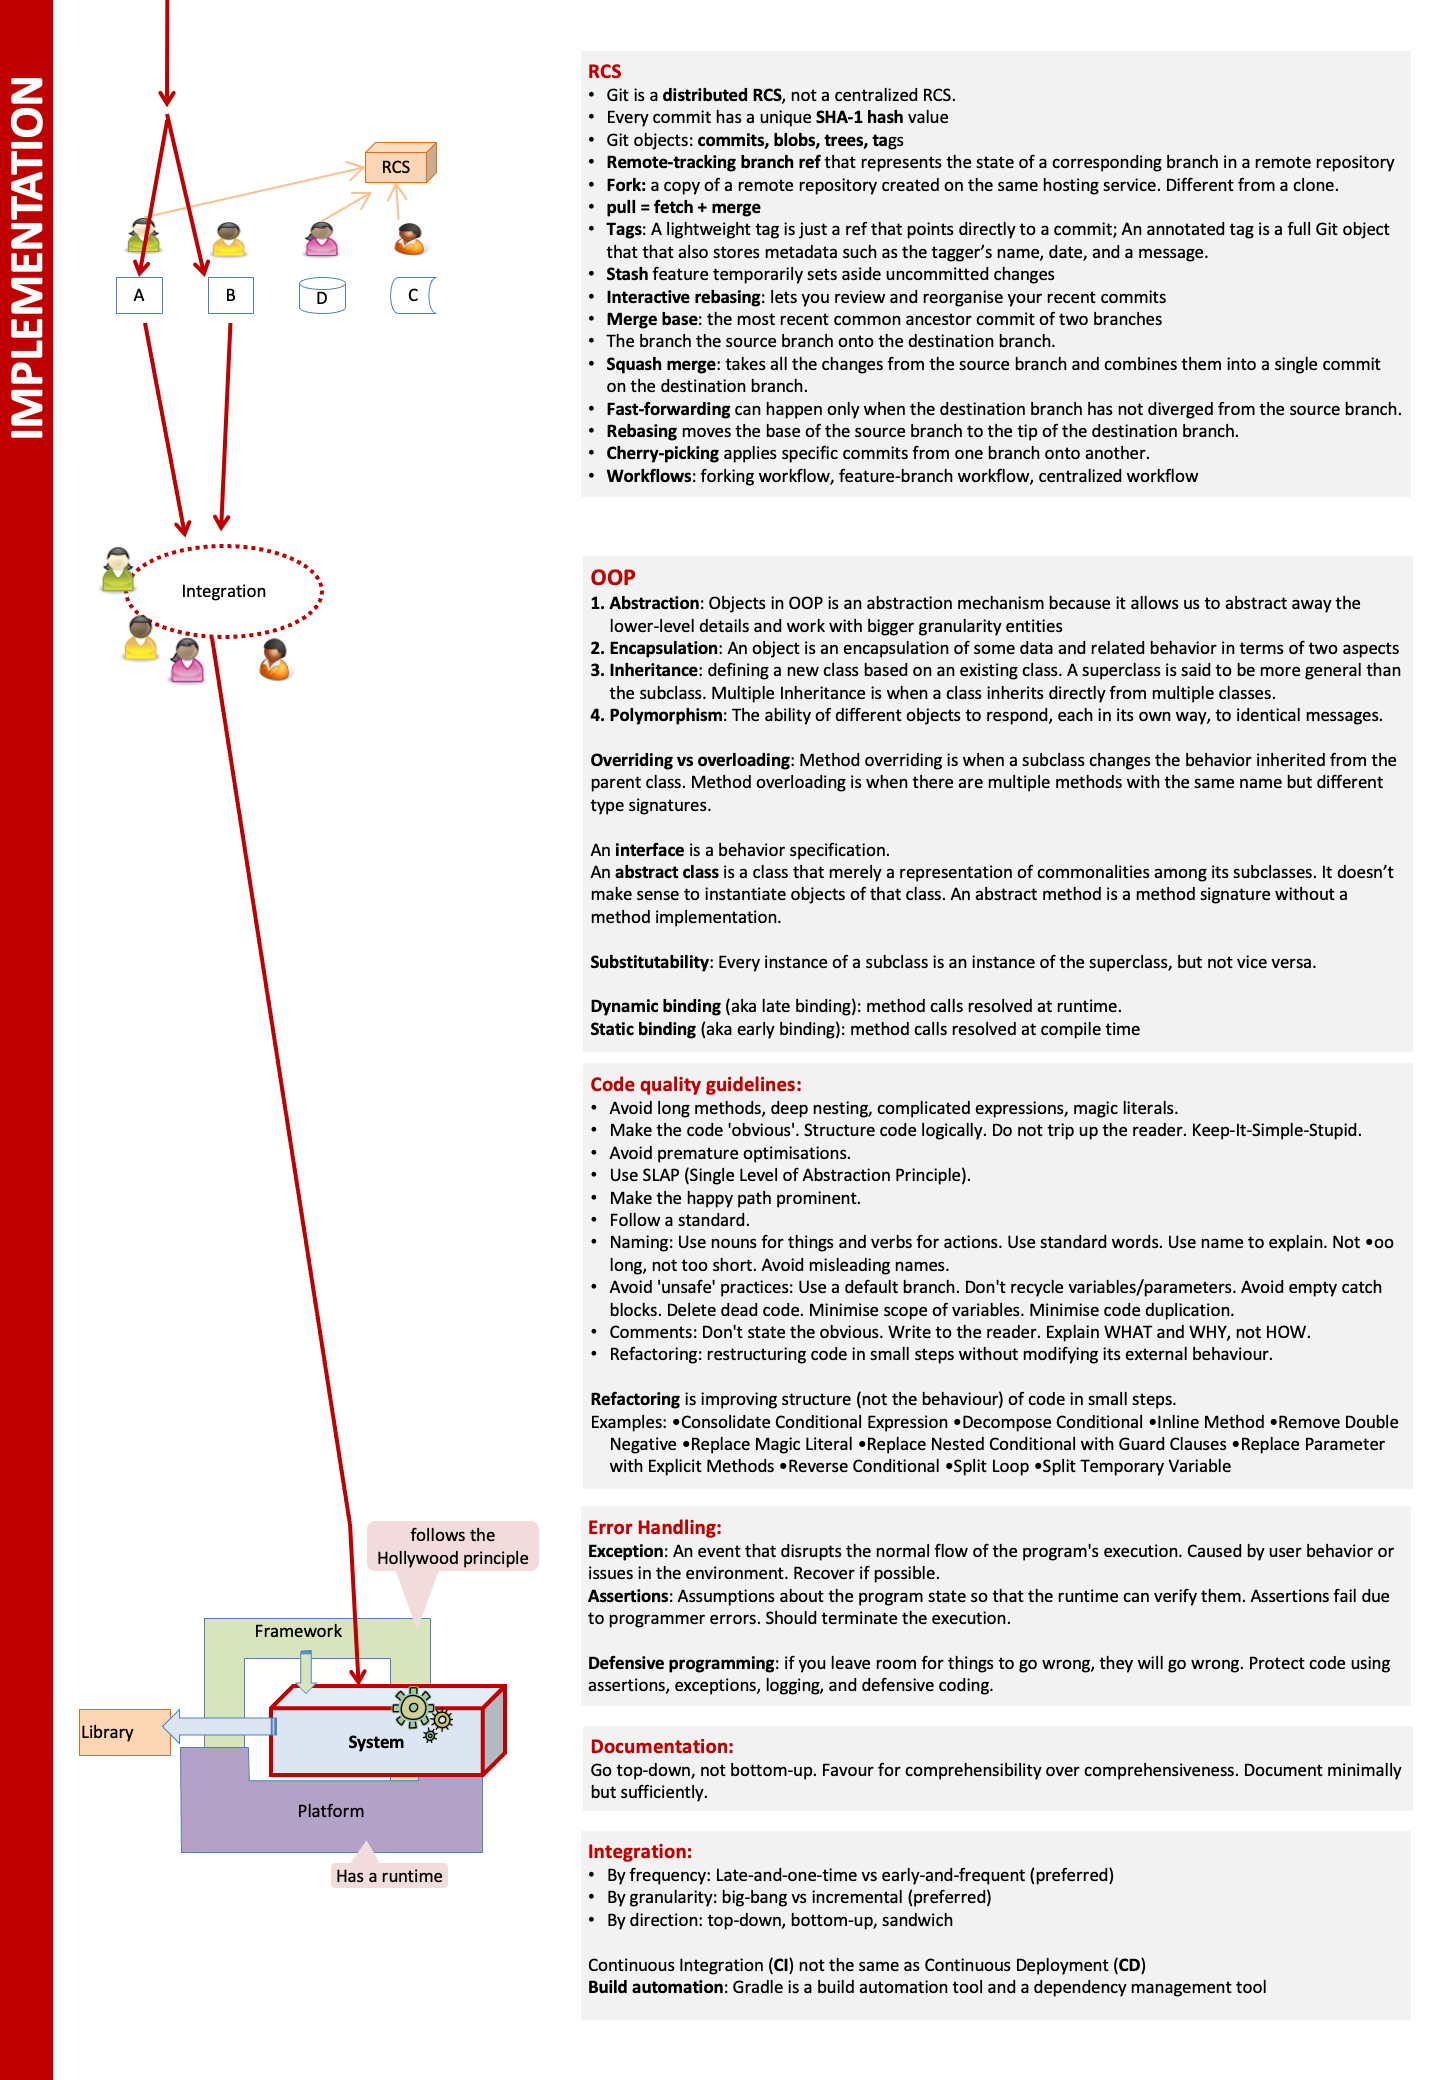
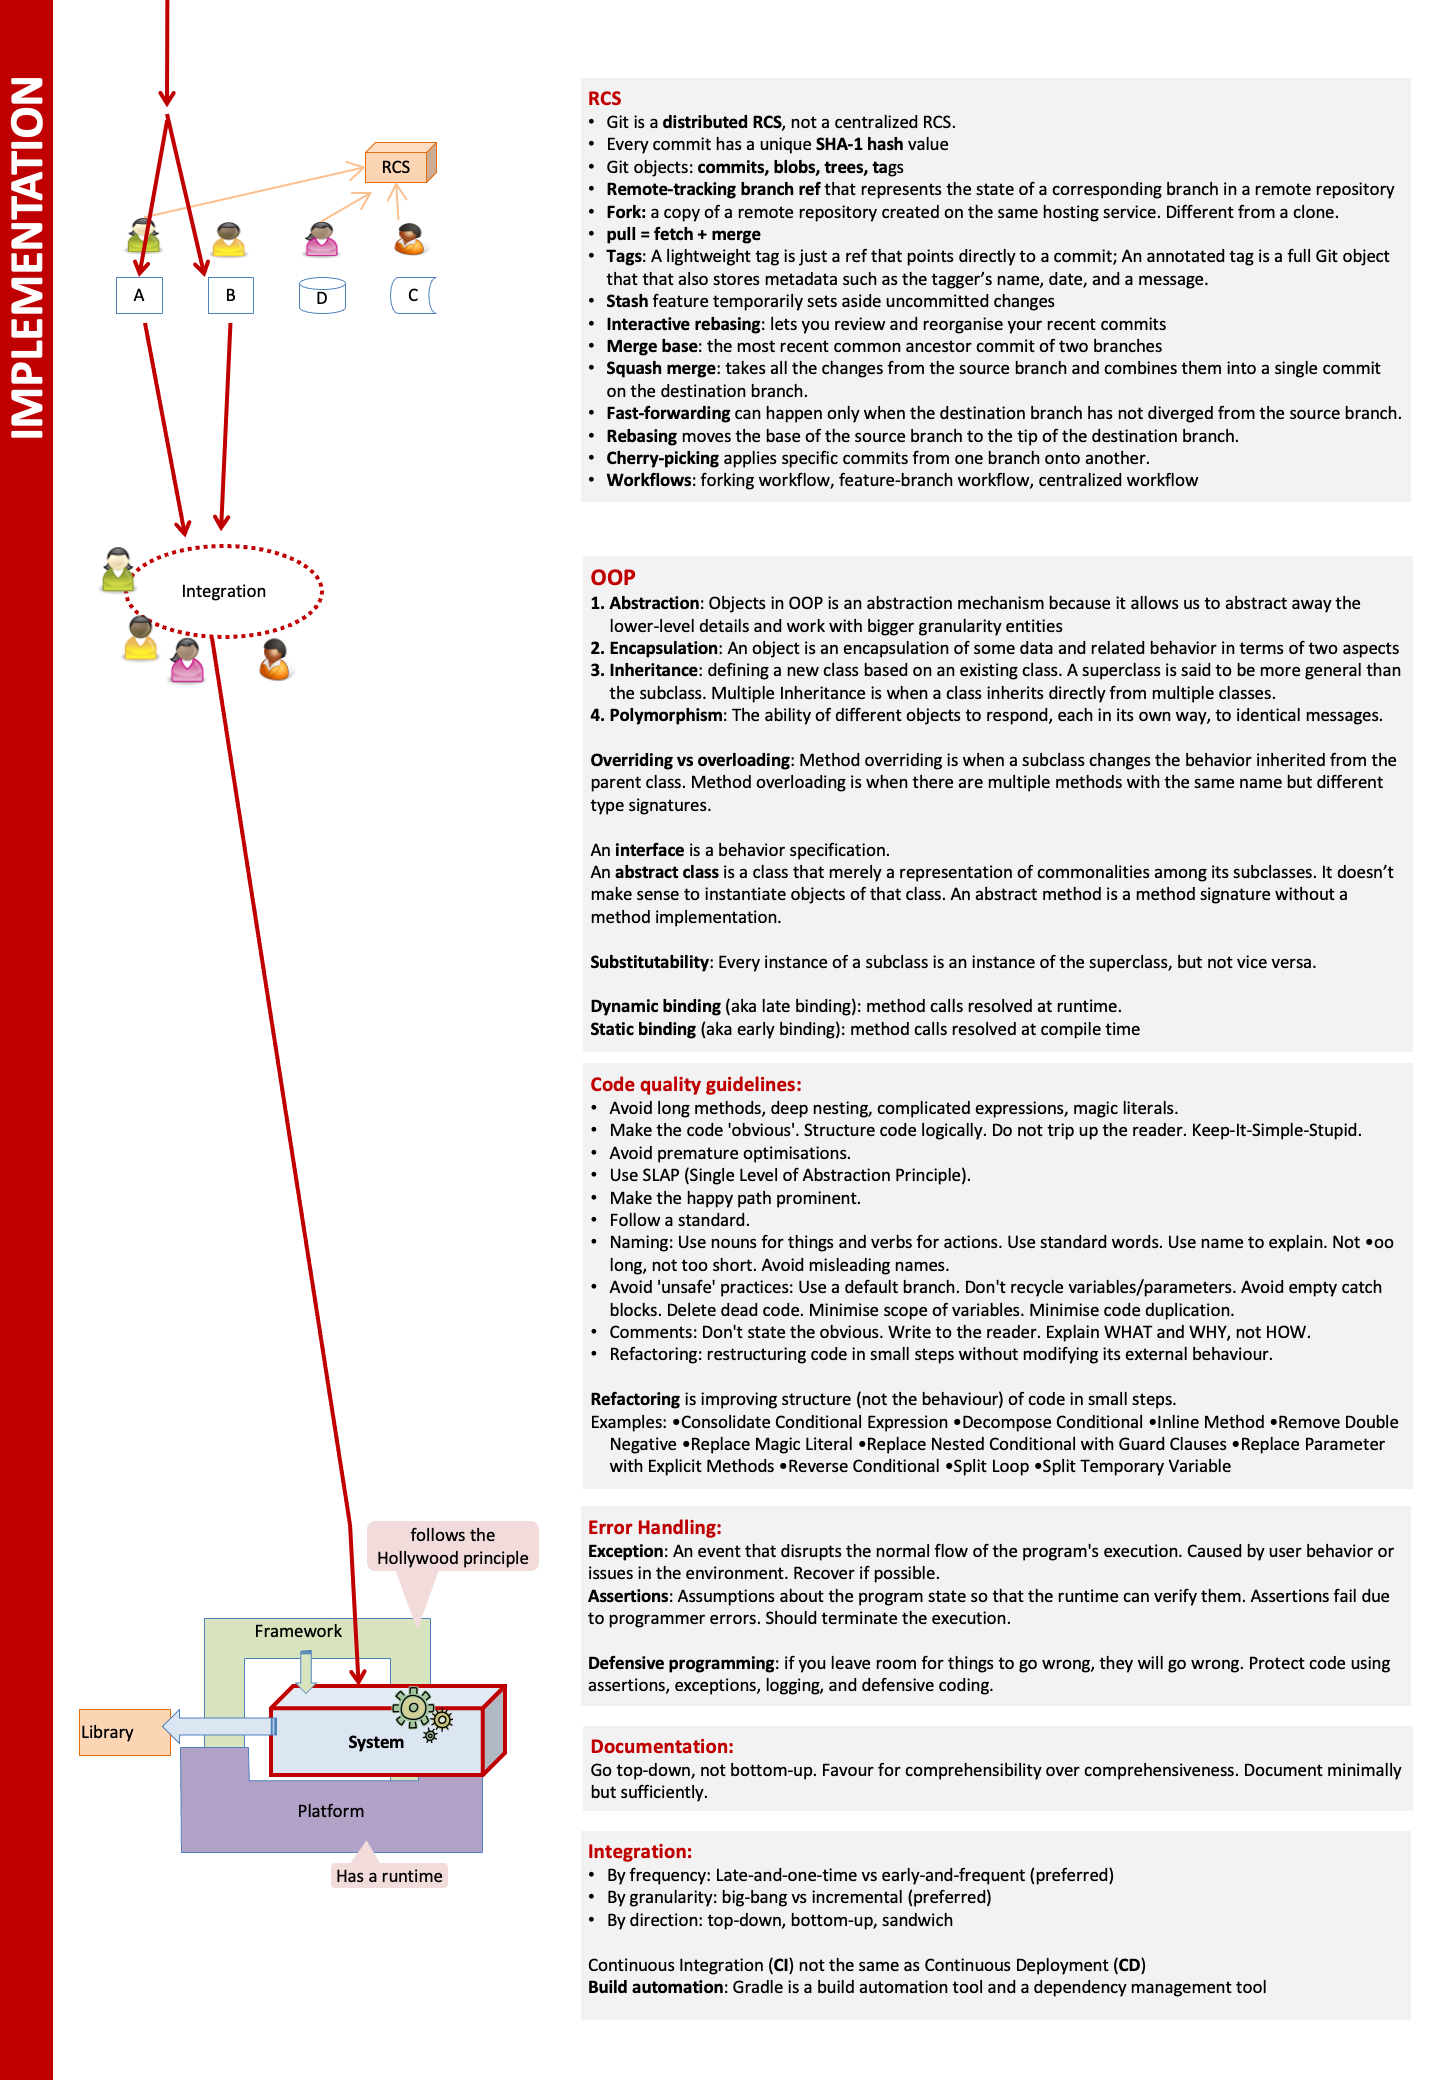
Update for reading week

Changed region(s): [[0.4062, 0.0312, 0.9688, 0.25]]

diff --git a/admin/usingThisWebsite.md b/admin/usingThisWebsite.md
@@ -42,19 +42,48 @@ Less important info
 
 <span id="tip-about-popup-url">You can use the <span class="btn btn-light ps-1 pe-1 pb-0 pt-0 border"><small>:glyphicon-new-window:</small></span> button in a panel to open it as a new tab (it can be expanded in-place too). This feature is available only for panels containing another _full_ page of the website (i.e., not available if the panel contains an _extract_ of a page).</span> e.g.,
 
-<panel header="A panel that can be opened as another tab" popup-url="{{ baseUrl }}/admin/acknowledgements.html">
-
+<panel header="A panel that can be opened as another tab" popup-url="acknowledgements.html">
 <include src="acknowledgements.md" />
 </panel>
 <p/>
+</div>
 
+**{{ icon_layers }} Tabs indicate _alternative_ content** (e.g., video vs text). You can choose the one you like and ignore the other tabs.
 
-**:fas-layer-group: the ==_topic levels_ system== indicates the progression of contents** from basic/relevant topics to advanced/less-relevant topics. Open the panel below to see more details of that system.
+<div class="indented-level2">
+<box>
 
-{{ embed_topic("courseExpectations.md#topicLevels", "Admin " + icon_embedding + " Course Expectations → Topic Levels", "usingThisWebsite-topicLevels", indent="1") }}
-<p/>
+<tabs>
+<tab header="{{ icon_text }}">
+
+Some textual description of X
+
+</tab>
+<tab header="{{ icon_video }}">
+
+Video describing X
+
+</tab>
+</tabs>
+
+</box>
+</div>
+
+**{{ icon_layers }} Dotted underlines indicate <popover content="some additional info">tool tips</popover>** (activated by hovering over it) and **dashed underlines indicate <trigger for="modal:modal-example" trigger="click">modal windows</trigger>** (activated by clicking) containing additional information.
+
+<popover id="pop:tooltip-example" header="Tooltip Example" placement="top">
+<div slot="content">
+Additional information
+</div>
+</popover>
+
+<modal header="Modal Example" id="modal:modal-example">
+Additional information
+</modal>
 
 </div>
+<div id="conventions">
+
 <div id="more">
 
 <include src="../book/about/usage.md#conventions" name="Conventions Used" />

diff --git a/admin/tp-pe-fragment.md b/admin/tp-pe-fragment.md
@@ -285,6 +285,12 @@ You will receive bonus marks if a high percentage (e.g., some bonus if >50%, a s
 ==**Deadline:** {{ get_date(date_w13_start if pe_week == "13" else date_w12_start, 8 if S == 2 else 8, time="23:59") }}==<br>
 ==**Aim to finish by Mon 23:59**== and keep Tuesday as a buffer. Reason: We'll send you a status update at the end of Monday, so that you can fix any problems with your responses during Tuesday.
 
+{% if pe_week == "13" %}
+<box type="info" seamless>
+
+**Why this is in the reading week?** Normally, the PE starts on Week 12 Friday and ends before the reading week begins. This semester, we had to move it to Week 13 Friday (which results in some of it spilling over to the reading week) due to university/public holidays interfering with the tail end of the tP schedule.
+</box>
+{% endif %}
 <box type="important" >
 
 ****Yes, that can be better!**** For each bug report you receive, if you think a software engineer who takes pride in their own work would say "yes, that can be better!", accept it graciously, even if you can come up with _some_ BS argument to justify the current behavior. <br>
@@ -328,7 +334,7 @@ Note that `response.NotInScope` bugs earn a small amount of credit for the teste
 
 ****Where to find the bug reports****:{ .text-info }
 
-* We will create a private repo `pe-{your team ID}` in the [course's GitHub org]({{ url_course_org }}) and transfer there all bugs your team received. Only your team members will be able to access it. We'll let you know when it is ready.
+* We will create a private repo `pe-{your team ID}` in the [course's GitHub org]({{ url_course_org }}) containing all bug reports your team received. Only your team members will be able to access it. We'll let you know (via a Canvas announcement) when it is ready.
 * The issue tracker will already contain the necessary labels.
   * #r#Do not change the text/colour of labels## that we have provided.
   * #g#You may add more labels.## We will ignore those extra labels.<br>
@@ -344,10 +350,13 @@ Note that `response.NotInScope` bugs earn a small amount of credit for the teste
 * **Stray bugs:**{ .text-info } **If a bug seems to be for a different product** (i.e., wrongly assigned to your team), let us know ASAP.
 * **Assignee(s):**{ .text-info } **Assign to the issue team member(s) responsible for the bug.**
   * If no one is assigned, the penalty will be divided equally among team members.
-  * {{ icon_important_big_red }} ==No more than 50% of the bugs are allowed to remain 'unassigned'== (_unassigned_ here means there is no assignee or is allocated to _all_ members of the team). Any excess unassigned bugs will incur a 20% 'tax' on the total penalty, divided among all members.<br>
-     Reasons:
-     * Pedagogical: Not being able to decide assignees for a bug shows a lack of clear division of responsibilities in the team.
-     * Administrative: Leaving too many bugs unassigned increases the burden on diligent team members who will then have to spend time responding to _all_ those bugs (in contrast, if all bugs are assigned, each member has to respond to 5-6 bugs on average).
+  * {{ icon_important_big_red }} ==No more than <popover content="i.e., 50% of all bugs your team received, irrespective of the `response.*` assigned to them">50% of the bugs</popover> are allowed to remain 'unassigned'== (_unassigned_ here means there is no assignee or is allocated to _all_ members of the team).
+    * Any excess unassigned bugs will incur a <popover content="e.g., if a team member M's penalty is `-5`, it will be increased to `(-5)*120% = (-6)`">20% 'tax' on the total penalty each member received.</popover><br>
+      Reasons:<br>
+      → Pedagogical: Not being able to decide assignees for a bug shows a lack of clear division of responsibilities in the team.<br>
+      → Administrative: Leaving too many bugs unassigned increases the burden on diligent team members who will then have to spend time responding to _all_ those bugs (in contrast, if all bugs are assigned, each member has to respond to 5-6 bugs on average).
+    * For this purpose, bugs flagged as duplicate are considered 'assigned' if the parent bug is assigned. Furthermore, each bug report is counted separately even if it is a duplicate of another bug report %%e.g., if bugs `B` and `C` are duplicates of bug `A` which has assignees, they are counted as three bugs with assignees%%.
+    * Reminder: for this purpose, bug reports assigned to _all_ team members are counted as 'unassigned'.
   * There is no need to actually fix the bug though. It's simply an indication/acceptance of responsibility. The penalty for the bug (if any) will be divided among the assignees %%e.g., if the penalty is -0.4 and there are 2 assignees, each member will be penalized -0.2%%.
   * If it is not easy to decide the assignee(s), we recommend (but not enforce) that the feature owner should be assigned bugs related to the feature, Reason: The feature owner should have defended the feature against bugs using automated tests and defensive coding techniques.
   * You may need to type the GitHub username of a member for it to appear in the assignee list.<br>
@@ -600,7 +609,8 @@ However, ==if the dev team's argument is not too far from 'reasonable', it may b
   * **If the team's `response.*` is not listed among aspects you can object to**, that means the bug was accepted by the team (hence, no need to object).<br>
     **If a severity downgrade is not listed among aspects you can object to**, that means the team gave the same (or a higher) severity to the bug.
   * **If you wish to update your objections later** (i.e., before the deadline is over), you may edit the one you previously added (rather than add another comment).
-  * **If you do not object to an aspect you are allowed to object to**, we'll assume that you agree with the dev team on that aspect.
+  * **If you do not object to an aspect you are allowed to object to**, we'll assume that you agree with the dev team on that aspect.<br>
+    You are also welcome to (but not required to) formally indicate your agreement by ticking the `[ ] - I agree with the dev team's position ...` checkbox, for each aspect.
 * #r#Do not##,
    * #r#change the subject, labels, or the description## of the original issue.
    * #r#edit the labels text/colour of the labels that we have provided,<br>
@@ -609,7 +619,7 @@ However, ==if the dev team's argument is not too far from 'reasonable', it may b
    * #r#close bug reports##.
      If you accidentally closed a bug during this phase, simply reopen it and it will be fine.
 * **If the team gave `response.Rejected`, but you think it should be `NotInScope`**, you can disagree with their `response.Rejected` and give your reasoning why it should be `NotInScope`.
-* **If the bug is either `response.Rejected` or `response.CannotReproduce` and you agree with that response**, you will not earn marks for that bug -- hence, there is no point objecting to a severity downgrade (if any) or duplicate status (if any).
+* **If the bug is either `response.Rejected` or `response.CannotReproduce` or `response.IssueUnclear`, and you agree with that response**, you will not earn marks for that bug -- hence, there is no point objecting to a severity downgrade (if any) or duplicate status (if any).
 * You can also refer to the below guidelines, mentioned during the previous phase as well:
 
 {{ embed_topic("tp-pe-fragment.md#additionalGuidelinesForBugTriaging", "Admin " + icon_embedding + " PE → Phase 2 → Additional Guidelines for Bug Triaging", "pe-additionalGuidelinesForBugTriaging", indent=1) }}
@@ -630,8 +640,13 @@ Not accepted| agreed        |                     | {{ up }}           | no effe
 Not accepted| disagreed     | Accepted            | {{ down }}         | {{ up }}
 Not accepted| disagreed     | Not accepted        | {{ up }}           | {{ down }}
 
+ <span class="badge rounded-pill bg-warning text-dark">Caution:</span> **Don't be tempted to contest every severity downgrade, thinking that there is 'no harm trying'** to overturn the downgrade because there is no additional penalty for trying to do so. If the teaching team feels that a tester is contesting a severity without a good basis, there will be an additional heavy penalty for the 'unreasonable' behaviour. So if you feel the dev team's justification for the severity downgrade is somewhat reasonable, it is in your interest to agree rather than to contest.
+
 {{ icon_info }} Dev accuracy is calculated individually (not per team), based on assignees.
 </div>
+
+* **To <tooltip content="i.e., previously you raised an objection but now you wish to agree with the dev team.">retract</tooltip> an objection**, either delete the <popover content="i.e., your comment stating the objection -- the one starting with `# R`, `# S`, `# D`">objection-comment</popover>, or remove the <tooltip content="i.e., `# R`, `# S`, `# D`">special heading</tooltip> that marks it as an objection-heading.<br>
+  #r#Simply 'hiding' an objection-comment will not be interpreted as a retraction.## Ticking the `I agree ...` checkbox will also not retract the objection, as we prioritise the objection-comment over the checkbox.
 
 
 {{ show_faq("tpPeAccuracyForNotInScope", is_compact=1) }}

diff --git a/admin/tp-tasks-fragment.md b/admin/tp-tasks-fragment.md
@@ -62,6 +62,12 @@ So, **deleting lines does not count as a change** (only editing and adding are c
   <pic src="images/tpCodeDashboardLoc.png" />
 1. [**tP Code Dashboard (Feature Freeze Period Only)**]({{ url_tp_feature_freeze_dashboard }}) -- this shows changes to functional code during the feature freeze period only. You can use this LoC number against the number you found in (1) above to estimate the percentage of LoC that you touched during the feature freeze period.
 
+<box type="warning" seamless>
+
+**If you use `@@author` tags to override auto-detected code authorship**, such code can interfere with the [feature freeze code dashboard]({{ url_tp_feature_freeze_dashboard }}) %%e.g., the code can appear in the dashboard even if it was not modified during the feature freeze period.%%<br>
+  Not  to worry though; we'll be doing a manual sanity check before applying the penalty for not complying with the feature freeze -- so, such false-positive code changes will be excluded accordingly.
+</box>
+
 The above two dashboard links are also available in the top navigation menu of the course website (see under `Project Links`).
 
 Both code dashboards are currently set to auto-update every three hours.

diff --git a/admin/tp-ped-fragment.md b/admin/tp-ped-fragment.md
@@ -122,7 +122,8 @@ Do the following steps ==#r#after 12 noon on the PE-D day -- get started at leas
   {{ icon_info }} You may visit the team's _releases_ page on GitHub if they have provided some extra files you need to download.
 1. Launch the jar file ==using the `java -jar` command== rather than double-clicking %%(reason: to ensure the jar file is using the same java version that you verified above)%%. Use double-clicking as a last resort.<br>
   {{ icon_info }} We strongly recommend surrounding the jar filename with double quotes, in case special characters in the filename causes the `java -jar` command to break.<br>
-  e.g., `java -jar "[team_id][product_name].jar"`<br>
+  e.g., `java -jar "jar_file_name.jar"`<br>
+  {{ icon_info }} Note that the name of the JAR filename inside the zip file can be different from the one given in their UG. This is because our scripts rename the JAR file in a different format before distribution. So, adapt your `java -jar` command accordingly, to match the actual JAR file name<br>
   :fab-windows: Windows users: use the DOS prompt or the PowerShell (not the WSL terminal) to run the JAR file.{% if cs2103 %}<br>
   :fab-linux: Linux users: If the JAR fails with an error labelled `Gdk-CRITICAL` (happens in Wayland display servers), try running it using `GDK_BACKEND=x11 java -jar jar_file_name.jar` command instead.{% endif %}
 </box>

diff --git a/_course-CS2103/studentData-fragment.md b/_course-CS2103/studentData-fragment.md
@@ -655,7 +655,7 @@
  'CS2103T-T16-3': 'CatPals',
  'CS2103T-T16-4': 'CrimeWatch',
  'CS2103T-T17-1': 'GymOps',
- 'CS2103T-T17-2': 'TaskNest',
+ 'CS2103T-T17-2': 'PingBook',
  'CS2103T-T17-3': 'OnlyTutors',
  'CS2103T-T17-4': 'Talently',
  'CS2103T-W08-1': 'Bivago',

diff --git a/admin/tp-constraints.md b/admin/tp-constraints.md
@@ -126,7 +126,7 @@ If you are unable to package everything into a JAR file, package the JAR file an
 The file sizes of the deliverables should be reasonable and not exceed the limits given below. <br>
 <div tags="m--cs2113 m--cs2103">
 
-%%**Reason:** It is hard to download big files during the practical exam due to limited Wi-Fi bandwidth at the venue. Plus, there is no reason to use space/bandwidth without a proportional benefit.%%</div>
+%%**Reason:** Big files can clog up the bandwidth and cloud service used for sharing PE files -- there is no reason to use space/bandwidth without a proportional benefit.%%</div>
 
 * <span class="text-danger">Product (i.e., the JAR/ZIP file): 100MB</span> (Some third-party software -- e.g., Stanford NLP library, certain graphics libraries -- can cause you to exceed this limit)
 